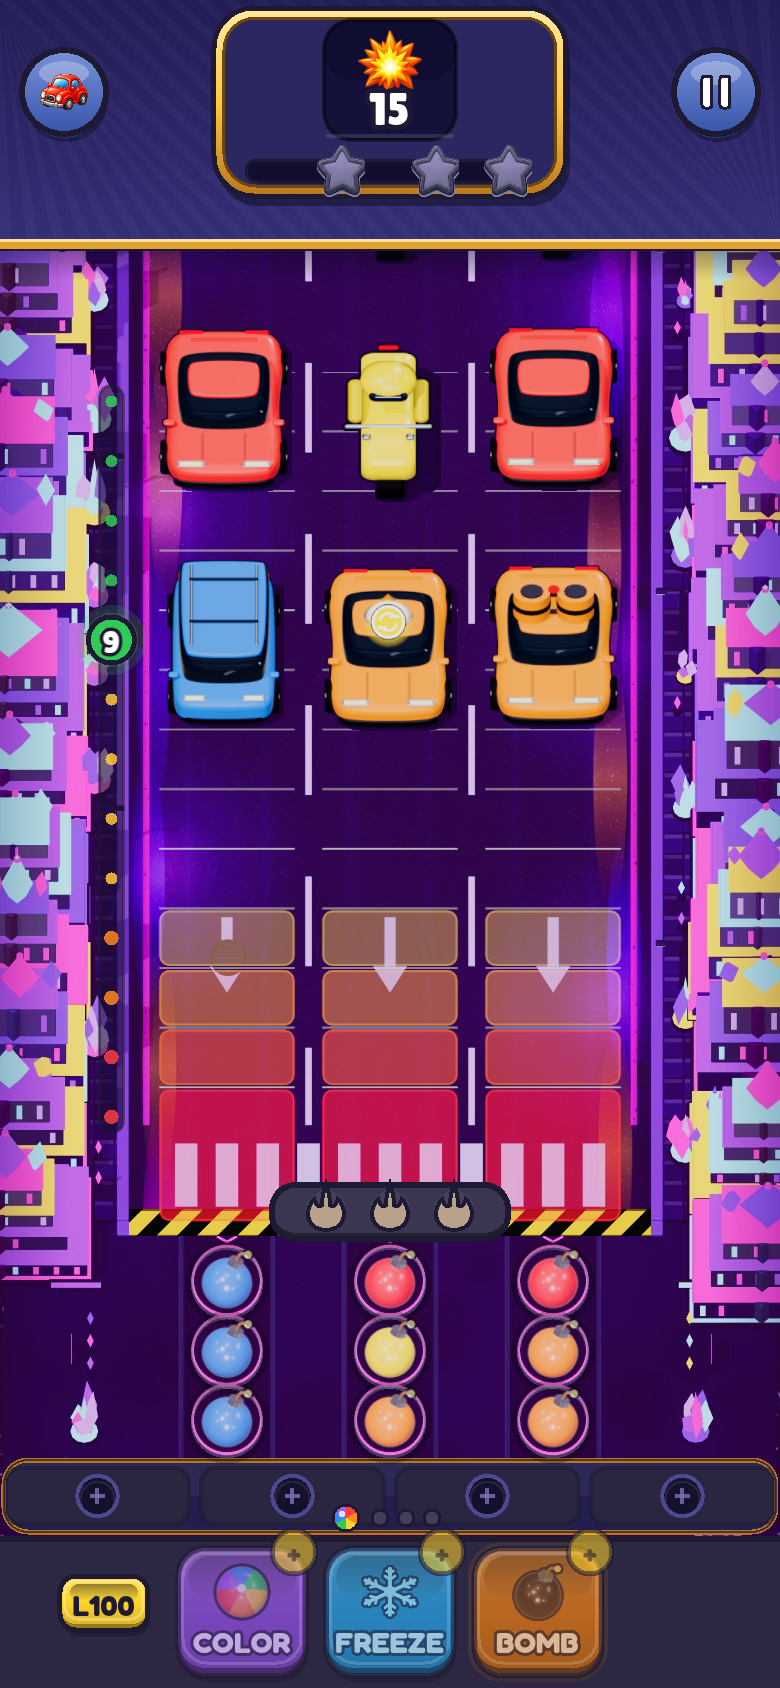
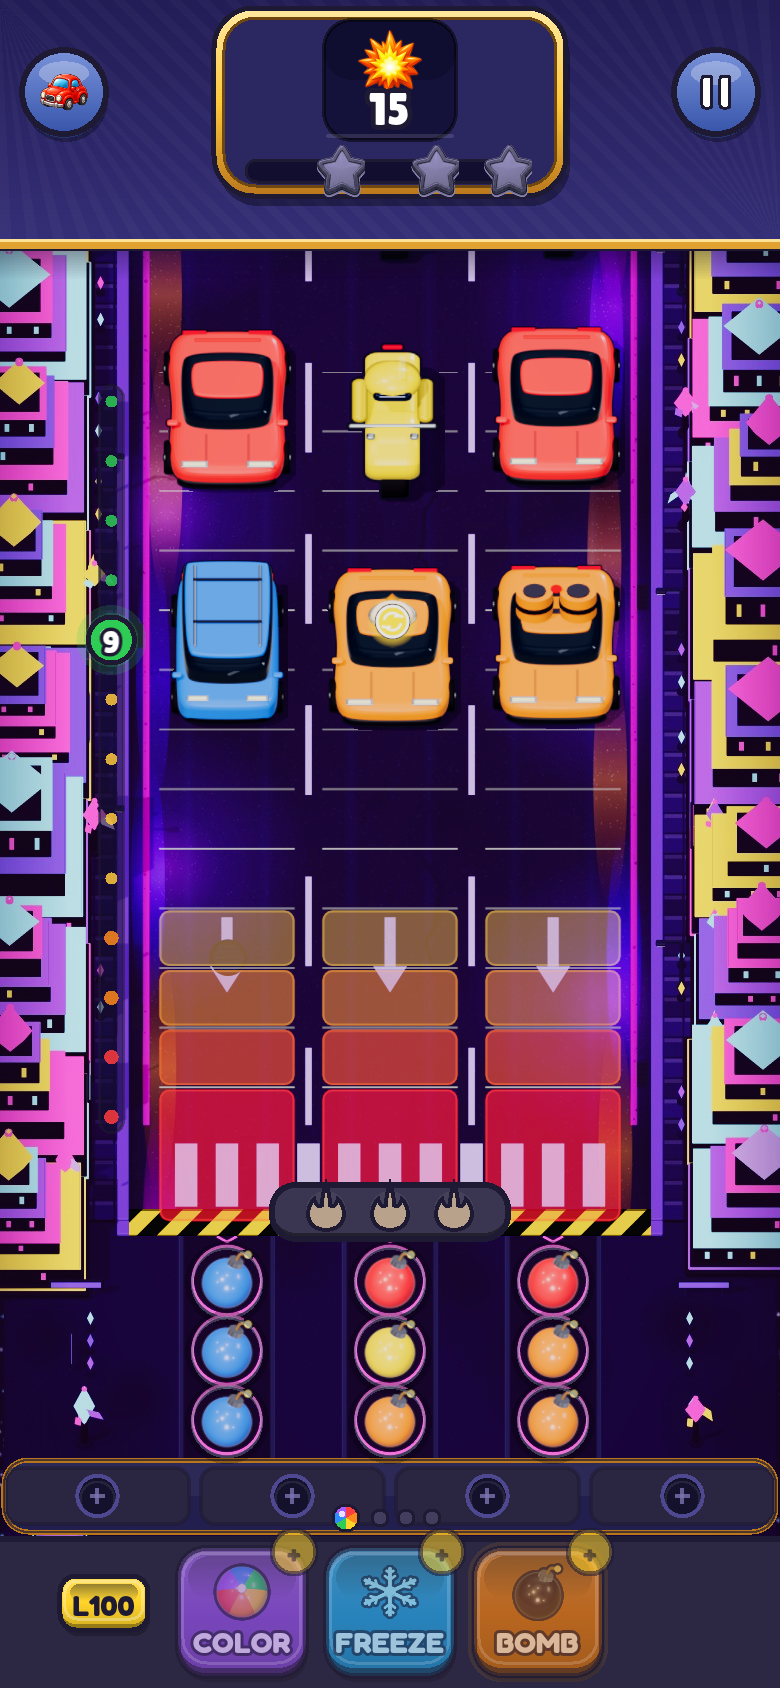
art(world7): clarify crystal spires + left crystal trees (CONCEPT revision)
Nadav rejected first CONCEPT: buildings muddy, left-side "maybe trees" unclear.
Dark silhouette rim + bright crystal core on crystalSpire; crystalTree greenery
with trunk+crown (different value from towers); thinned left filler; lighter
cosmos sceneGlow. Rebaked W7 backdrop/map/repair only. Still CONCEPT-STAMP.

diff --git a/tools/art/studio/backdrop.js b/tools/art/studio/backdrop.js
@@ -209,13 +209,16 @@ Object.assign(THEME, {
   world7: {
     asphalt: 0x241838, asphaltHi: 0x32245A, asphaltLo: 0x1A1234, paint: '#F1E8FF', centre: '#FF4FD8',
     kerb: 0x7A5CC8, gutter: 0x120A22, walk: [0x2A1E4E, 0x24183F, 0x32245A, 0x1E1438], walkJoint: '#140C28',
-    lawn: [0x140E2A, 0x100A22], leaf: [0xC89CFF, 0xA35CFF, 0x7C5CFF, 0xFF4FD8, 0x8FE8FF], trunk: 0x2A1E4A,
-    roofs: [0x1A1234, 0x24183F, 0x2E2258, 0x3A2870], walls: [0x4A3A78, 0x3E3066, 0x5A48A0, 0x35295A],
+    // Crystal-tree crowns: bright cyan/magenta (different value from dark tower walls).
+    lawn: [0x140E2A, 0x100A22], leaf: [0x8FE8FF, 0xFF4FD8, 0xC89CFF, 0xFFD42A, 0xA35CFF], trunk: 0x140C28,
+    roofs: [0x0E0818, 0x160E2E, 0x1A1234, 0x24183F],
+    // Dark silhouette walls (not mid-violet wash) — facets + neon belts carry the read.
+    walls: [0x1A1234, 0x140C28, 0x221848, 0x0E0818],
     awnings: [[0xFF4FD8, 0x1A1234], [0xA35CFF, 0x1A1234], [0x8FE8FF, 0x1A1234]],
     depot: [0x1C1438, 0x241A44, 0x160E2E], depotJoint: '#0C0818', track: 0x18122E, trackEdge: 0xFF4FD8,
     neon: [0xFF4FD8, 0xA35CFF, 0x8FE8FF, 0xFFD42A, 0x7C5CFF], lot: 0x0A0718,
     fill: [0xFF4FD8, 0x7C5CFF],
-    sun: { color: 0xD0C0FF, intensity: 1.75, hemi: [0x9A82FF, 0x140A28, 0.78], env: 0.28, exposure: 1.08 },
+    sun: { color: 0xD0C0FF, intensity: 1.85, hemi: [0x9A82FF, 0x0A0618, 0.72], env: 0.26, exposure: 1.05 },
   },
 });
 
@@ -605,85 +608,120 @@ function frostPine(T, r, s = 1) {
   return g;
 }
 function crystal(T, r, s = 1) {
-  // Pedestaled crystal cluster — dark plinth keeps crystals off the star plaza
-  // so they never melt into the ground the way Frost Pass roofs melted into snow.
+  // Sparse pedestaled crystal accent (plaza props). Prefer crystalTree for greenery —
+  // this stays a tight glowing shard cluster, not an ambiguous blob mass.
   const g = new THREE.Group();
-  const pedR = 0.32 * s, pedH = 0.1 * s;
-  g.add(cyl(pedR, pedR * 1.05, pedH, std(0x1A1234, 0.55, { metalness: 0.35 }), 0, pedH / 2, 0, 12));
-  g.add(cyl(pedR * 0.92, pedR * 0.92, 0.03 * s, glow(pick(r, T.neon ?? T.leaf)), 0, pedH + 0.01 * s, 0, 12));
-  const n = 3 + Math.floor(r() * 3);
+  const pedR = 0.28 * s, pedH = 0.12 * s;
+  g.add(cyl(pedR, pedR * 1.08, pedH, std(0x0E0818, 0.5, { metalness: 0.4 }), 0, pedH / 2, 0, 12));
+  g.add(cyl(pedR * 0.9, pedR * 0.9, 0.035 * s, glow(pick(r, T.neon ?? T.leaf)), 0, pedH + 0.012 * s, 0, 12));
+  const n = 2 + Math.floor(r() * 2); // fewer shards = clearer silhouette
   for (let i = 0; i < n; i++) {
-    const h = (0.55 + r() * 0.95) * s;
-    const rad = (0.14 + r() * 0.1) * s;
+    const h = (0.7 + r() * 0.85) * s;
+    const rad = (0.11 + r() * 0.07) * s;
     const c = new THREE.Mesh(new THREE.OctahedronGeometry(rad, 0), glow(pick(r, T.leaf)));
-    c.scale.set(1, h / (rad * 2), 1);
-    const a = (i / n) * Math.PI * 2 + r() * 0.4;
-    const spread = (0.08 + r() * 0.14) * s;
+    c.scale.set(0.85, h / (rad * 2), 0.85);
+    const a = (i / n) * Math.PI * 2 + r() * 0.25;
+    const spread = (0.04 + r() * 0.08) * s;
     c.position.set(Math.cos(a) * spread, pedH + h * 0.5, Math.sin(a) * spread);
-    c.rotation.set((r() - 0.5) * 0.35, r() * 3, (r() - 0.5) * 0.35);
+    c.rotation.set((r() - 0.5) * 0.2, r() * 3, (r() - 0.5) * 0.2);
     g.add(c);
   }
-  // Tall centre shard for silhouette.
-  if (r() < 0.7) {
-    const h = (1.0 + r() * 0.7) * s;
-    const tip = new THREE.Mesh(new THREE.OctahedronGeometry(0.12 * s, 0), glow(pick(r, [0xFF4FD8, 0xC89CFF, 0x8FE8FF])));
-    tip.scale.set(0.7, h / (0.24 * s), 0.7);
-    tip.position.set(0, pedH + h * 0.5, 0);
-    g.add(tip);
+  const tipH = (1.15 + r() * 0.55) * s;
+  const tip = new THREE.Mesh(new THREE.OctahedronGeometry(0.11 * s, 0), glow(pick(r, [0xFF4FD8, 0x8FE8FF, 0xFFD42A])));
+  tip.scale.set(0.65, tipH / (0.22 * s), 0.65);
+  tip.position.set(0, pedH + tipH * 0.5, 0);
+  g.add(tip);
+  return g;
+}
+function crystalTree(T, r, s = 1) {
+  // Unmistakable crystal tree: dark trunk + bright crown — different value/silhouette
+  // from chunky crystalSpire towers so left-side greenery never reads as "maybe buildings".
+  const g = new THREE.Group();
+  const trunkH = (0.55 + r() * 0.25) * s;
+  const trunkR = (0.055 + r() * 0.02) * s;
+  // Near-black trunk + thin cyan neon seam so trunk separates from night plaza.
+  g.add(cyl(trunkR, trunkR * 1.15, trunkH, std(0x0E0818, 0.55, { metalness: 0.35 }), 0, trunkH / 2, 0, 8));
+  g.add(cyl(trunkR * 0.35, trunkR * 0.35, trunkH * 0.92, glow(pick(r, [0x8FE8FF, 0xA35CFF])), 0, trunkH / 2, 0, 6));
+  // Small dark planter disk (not a building pedestal).
+  g.add(cyl(trunkR * 2.4, trunkR * 2.6, 0.06 * s, std(0x120A28, 0.6, { metalness: 0.3 }), 0, 0.03 * s, 0, 10));
+  // Crown: 1 tall centre octahedron + 3–4 side leaves — clear tree silhouette.
+  const crownCols = [0x8FE8FF, 0xFF4FD8, 0xC89CFF, 0xFFD42A, 0xA35CFF];
+  const centreH = (0.85 + r() * 0.55) * s;
+  const centre = new THREE.Mesh(new THREE.OctahedronGeometry(0.22 * s, 0), glow(pick(r, crownCols)));
+  centre.scale.set(1, centreH / (0.44 * s), 1);
+  centre.position.y = trunkH + centreH * 0.42;
+  g.add(centre);
+  const leaves = 3 + Math.floor(r() * 2);
+  for (let i = 0; i < leaves; i++) {
+    const a = (i / leaves) * Math.PI * 2 + r() * 0.3;
+    const lh = (0.45 + r() * 0.35) * s;
+    const leaf = new THREE.Mesh(new THREE.OctahedronGeometry(0.14 * s, 0), glow(pick(r, crownCols)));
+    leaf.scale.set(0.75, lh / (0.28 * s), 0.55);
+    leaf.position.set(Math.cos(a) * 0.22 * s, trunkH + lh * 0.35 + r() * 0.12 * s, Math.sin(a) * 0.22 * s);
+    leaf.rotation.set((r() - 0.5) * 0.5, a, (r() - 0.5) * 0.35 + 0.55);
+    g.add(leaf);
   }
+  // Magenta tip sparkle — reads as tree top, not tower aviation beacon.
+  g.add(sphere(0.06 * s, glow(0xFF4FD8), 0, trunkH + centreH * 0.85, 0, 8, 6));
   return g;
 }
 function crystalSpire(T, r, w, d, h) {
-  // Faceted crystal tower — geometric prism stack with glowing violet rings.
-  // Reads as a sci-fi crystal monument, NOT a Neon Nights setback office tower.
+  // Faceted crystal tower with HARD silhouette: dark outer rim + bright crystal core.
+  // Clarity revision — edges must read vs night sky / plaza (not violet-on-violet mush).
   const g = new THREE.Group();
   const wall = pick(r, T.walls);
   const neon = pick(r, T.neon ?? T.leaf);
-  // Dark pedestal plinth for plaza contrast.
-  g.add(rbox(w + 0.35, 0.14, d + 0.35, 0.06, std(0x120A28, 0.55, { metalness: 0.4 }), 0, 0.07, 0));
-  g.add(rbox(w + 0.2, 0.04, d + 0.2, 0.04, glow(neon), 0, 0.16, 0));
-  // Tapered faceted shaft: 3–4 prism tiers getting narrower.
+  const rim = std(0x080510, 0.55, { metalness: 0.25 }); // near-black silhouette rim
+  // Tall dark pedestal that separates tower mass from star plaza.
+  g.add(rbox(w + 0.55, 0.22, d + 0.55, 0.08, std(0x0A0618, 0.5, { metalness: 0.45 }), 0, 0.11, 0));
+  g.add(rbox(w + 0.38, 0.06, d + 0.38, 0.04, glow(neon), 0, 0.24, 0));
+  g.add(rbox(w + 0.28, 0.03, d + 0.28, 0.02, rim, 0, 0.28, 0));
+  // Tapered shaft: dark shell + bright inner diamond core + neon belt per tier.
   const tiers = 3 + Math.floor(r() * 2);
-  let y = 0.18, tw = w, td = d;
+  let y = 0.30, tw = w, td = d;
   for (let i = 0; i < tiers; i++) {
-    const th = h * (0.22 + r() * 0.1) * (i === tiers - 1 ? 1.15 : 1);
-    const body = std(mix(wall, 0xffffff, 0.08 * i), 0.35, { metalness: 0.45 });
-    // Slight diamond footprint via rotated square + upright box.
-    g.add(rbox(tw, th, td, 0.02, body, 0, y + th / 2, 0));
-    const facet = rbox(tw * 0.72, th * 0.98, td * 0.72, 0.02, std(mix(wall, neon, 0.15), 0.3, { metalness: 0.55 }), 0, y + th / 2, 0);
+    const th = h * (0.20 + r() * 0.09) * (i === tiers - 1 ? 1.2 : 1);
+    // Outer dark shell (silhouette against night sky).
+    g.add(rbox(tw + 0.08, th, td + 0.08, 0.02, rim, 0, y + th / 2, 0));
+    // Mid body — slightly lifted from pure black so facets still shade.
+    const body = std(mix(wall, 0x000000, 0.15), 0.4, { metalness: 0.5 });
+    g.add(rbox(tw, th * 0.96, td, 0.02, body, 0, y + th / 2, 0));
+    // Bright crystal core (rotated diamond) — high value vs dark shell.
+    const coreCol = mix(neon, 0xffffff, 0.25 + i * 0.08);
+    const facet = rbox(tw * 0.62, th * 0.9, td * 0.62, 0.02, std(coreCol, 0.25, { metalness: 0.65, emissive: neon, emissiveIntensity: 0.18 }), 0, y + th / 2, 0);
     facet.rotation.y = Math.PI / 4;
     g.add(facet);
-    // Glowing ring belt at each tier joint.
-    g.add(rbox(tw + 0.08, 0.05, td + 0.08, 0.02, glow(pick(r, T.neon ?? T.leaf)), 0, y + th - 0.02, 0));
-    // Cool lit facets (not warm office windows).
-    const cols = Math.max(2, Math.floor(tw / 0.45));
+    // Vertical edge highlights (4 corners) — crisp facet read at bake resolution.
+    const edgeM = glow(mix(neon, 0xffffff, 0.35));
+    const ew = 0.035, eh = th * 0.85;
+    for (const [sx, sz] of [[1, 1], [1, -1], [-1, 1], [-1, -1]]) {
+      g.add(box(ew, eh, ew, edgeM, sx * (tw / 2 + 0.01), y + th / 2, sz * (td / 2 + 0.01)));
+    }
+    // Neon belt at tier joint (bright ring vs dark shell).
+    g.add(rbox(tw + 0.14, 0.06, td + 0.14, 0.02, glow(pick(r, T.neon ?? T.leaf)), 0, y + th - 0.02, 0));
+    // Sparse cool window facets on the camera-facing face only (not a wash of panes).
+    const cols = Math.max(1, Math.floor(tw / 0.55));
     for (let c = 0; c < cols; c++) {
-      if (r() < 0.35) continue;
-      g.add(box(0.14, th * 0.55, 0.02, glow(pick(r, [0xC89CFF, 0x8FE8FF, 0xFF4FD8, 0xA35CFF])),
-        -tw / 2 + (c + 0.5) * (tw / cols), y + th * 0.45, td / 2 + 0.01));
+      if (r() < 0.4) continue;
+      g.add(box(0.12, th * 0.42, 0.025, glow(pick(r, [0x8FE8FF, 0xFF4FD8, 0xFFD42A])),
+        -tw / 2 + (c + 0.5) * (tw / cols), y + th * 0.48, td / 2 + 0.03));
     }
     y += th;
-    tw *= 0.72 + r() * 0.08;
-    td *= 0.72 + r() * 0.08;
+    tw *= 0.70 + r() * 0.06;
+    td *= 0.70 + r() * 0.06;
   }
-  // Crystal crown — stacked octahedrons, not a billboard / pool / helipad.
-  const crownH = 0.7 + r() * 0.55;
-  const crown = new THREE.Mesh(new THREE.OctahedronGeometry(Math.min(tw, td) * 0.55, 0), glow(pick(r, T.leaf)));
-  crown.scale.set(1, crownH / (Math.min(tw, td) * 0.55), 1);
-  crown.position.y = y + crownH * 0.45;
+  // Single bright crown octahedron (no side-shard mush).
+  const crownH = 0.85 + r() * 0.45;
+  const crownR = Math.max(0.28, Math.min(tw, td) * 0.7);
+  const crown = new THREE.Mesh(new THREE.OctahedronGeometry(crownR, 0), glow(pick(r, [0x8FE8FF, 0xFF4FD8, 0xC89CFF, 0xFFD42A])));
+  crown.scale.set(1, crownH / crownR, 1);
+  crown.position.y = y + crownH * 0.42;
   g.add(crown);
-  if (r() < 0.7) {
-    for (let k = 0; k < 2; k++) {
-      const side = new THREE.Mesh(new THREE.OctahedronGeometry(0.18 + r() * 0.1, 0), glow(pick(r, T.neon ?? T.leaf)));
-      side.scale.set(1, 1.6 + r(), 1);
-      side.position.set((k ? 1 : -1) * tw * 0.55, y + 0.35 + r() * 0.2, (r() - 0.5) * td * 0.3);
-      side.rotation.set((r() - 0.5) * 0.4, r() * 2, (r() - 0.5) * 0.4);
-      g.add(side);
-    }
-  }
-  // Magenta aviation tip (crystal glow, not red city beacon).
-  g.add(cyl(0.04, 0.04, 0.35, std(0x2A1E4A, 0.5), 0, y + crownH + 0.15, 0, 6));
-  g.add(cyl(0.09, 0.09, 0.09, glow(0xFF4FD8), 0, y + crownH + 0.35, 0, 10));
+  // Dark collar under crown so crown doesn't melt into top tier.
+  g.add(rbox(tw + 0.1, 0.05, td + 0.1, 0.02, rim, 0, y + 0.02, 0));
+  // Magenta aviation tip.
+  g.add(cyl(0.045, 0.045, 0.32, std(0x140C28, 0.5), 0, y + crownH + 0.12, 0, 6));
+  g.add(cyl(0.1, 0.1, 0.1, glow(0xFF4FD8), 0, y + crownH + 0.32, 0, 10));
   return g;
 }
 function crystalBollard(col = 0xA35CFF) {
@@ -700,7 +738,7 @@ function crystalBollard(col = 0xA35CFF) {
 function greenery(world, T, r, s = 1) {
   if (world === 'world4') return r() < 0.8 ? cactus(T, r, s) : rockCluster(T, r, 0.7 * s, 0.6 * s);
   if (world === 'world5') return frostPine(T, r, s);
-  if (world === 'world7') return crystal(T, r, s * 1.1);
+  if (world === 'world7') return crystalTree(T, r, s * 1.05);
   return tree(T, r, s);
 }
 function bedFor(world, T, r, w, d) {
@@ -1040,11 +1078,12 @@ export function buildBackdrop(world, variant, L) {
         else if (kind < 0.8) { const p = pallet(r); p.position.set(px, 0.1, Z(tz)); p.rotation.y = r() * 0.4; g.add(p); }
         else { const t = greenery(world, T, r, 0.8); t.position.set(px, 0.1, Z(tz)); g.add(t); }
       } else if (world === 'world7') {
-        // Starlight Strip sidewalk: pedestaled crystals, glowing crystal posts, magenta neon.
-        if (kind < 0.42) { const t = greenery(world, T, r, 0.95 + r() * 0.35); t.position.set(px, 0.1, Z(tz)); g.add(t); }
-        else if (kind < 0.62) { for (let k = 0; k < 2; k++) { const b = crystalBollard(pick(r, T.neon)); b.position.set(px - s * 0.1, 0.1, Z(tz + k * 0.75)); g.add(b); } }
-        else if (kind < 0.8) { const n = neonSign(T, r, 1.0 + r() * 0.4); n.position.set(px + s * 0.15, 0.1, Z(tz)); n.rotation.y = Math.PI / 2; g.add(n); }
-        else { const t = greenery(world, T, r, 0.7); t.position.set(px, 0.1, Z(tz)); g.add(t); const b = crystalBollard(0xFF4FD8); b.position.set(px - s * 0.2, 0.1, Z(tz + 0.85)); g.add(b); }
+        // Starlight Strip sidewalk: sparse crystal TREES (clear trunk+crown) + bollards —
+        // thin the left-side mush; prefer readable props over dense unclear filler.
+        if (kind < 0.22) { const t = greenery(world, T, r, 1.05 + r() * 0.25); t.position.set(px, 0.1, Z(tz)); g.add(t); }
+        else if (kind < 0.55) { for (let k = 0; k < 2; k++) { const b = crystalBollard(pick(r, T.neon)); b.position.set(px - s * 0.1, 0.1, Z(tz + k * 0.8)); g.add(b); } }
+        else if (kind < 0.78) { const n = neonSign(T, r, 1.0 + r() * 0.4); n.position.set(px + s * 0.15, 0.1, Z(tz)); n.rotation.y = Math.PI / 2; g.add(n); }
+        else { const b = crystalBollard(0xFF4FD8); b.position.set(px - s * 0.15, 0.1, Z(tz)); g.add(b); const b2 = crystalBollard(0x8FE8FF); b2.position.set(px - s * 0.15, 0.1, Z(tz + 0.9)); g.add(b2); }
       } else {
         if (kind < 0.4) { const t = greenery(world, T, r, 0.85); t.position.set(px, 0.1, Z(tz)); g.add(t); }
         else if (kind < 0.7) { const b = bollard(0x4A4E62); b.position.set(px - s * 0.1, 0.1, Z(tz)); g.add(b); const b2 = bollard(0x4A4E62); b2.position.set(px - s * 0.1, 0.1, Z(tz + 0.7)); g.add(b2); }
@@ -1057,7 +1096,7 @@ export function buildBackdrop(world, variant, L) {
     let bz = L.topZ - 1.5;
     const bzEnd = FAMILY[world] === 'town' ? z1 : L.breachZ + 0.5;   // town: the street's houses continue beside the depot
     while (bz < bzEnd) {
-      const d = FAMILY[world] === 'yard' ? 3.2 + r() * 1.6 : world === 'world7' ? 1.7 + r() * 1.1 : 2.0 + r() * 1.2;
+      const d = FAMILY[world] === 'yard' ? 3.2 + r() * 1.6 : world === 'world7' ? 2.4 + r() * 1.3 : 2.0 + r() * 1.2;
       const w = 2.6 + r() * 0.8;
       const cx = bandIn + s * w / 2;
       const zc = bz + d / 2;
@@ -1096,15 +1135,16 @@ export function buildBackdrop(world, variant, L) {
           for (let k = 0; k < 3; k++) { const dr = drum(pick(r, [0x2F8CFF, 0xE0574A, 0x2FA36B])); dr.position.set(bandIn + s * (0.3 + r() * 0.3), 0.1, Z(zc - d / 2 + 0.4 + k * 0.4)); g.add(dr); }
         }
       } else if (world === 'world7') {
-        // Crystal spires / geometric towers — sci-fi strip, not neon-city setbacks.
-        const h = 2.0 + r() * 2.4;
-        const sp = crystalSpire(T, r, w + 0.35 + r() * 0.4, Z(d) - Z(0) - 0.25, h);
+        // Crystal spires — spaced so each tower silhouette reads; rare crystalTree in the gap
+        // (not a pedestaled blob glued to the tower face).
+        const h = 2.2 + r() * 2.2;
+        const sp = crystalSpire(T, r, w + 0.2 + r() * 0.35, Z(d) - Z(0) - 0.3, h);
         sp.position.set(cx, 0.1, Z(zc));
         g.add(sp);
-        if (r() < 0.55) {
-          const cl = crystal(T, r, 0.7 + r() * 0.35);
-          cl.position.set(bandIn + s * 0.35, 0.1, Z(zc - d * 0.3));
-          g.add(cl);
+        if (r() < 0.28) {
+          const tr = crystalTree(T, r, 0.85 + r() * 0.25);
+          tr.position.set(bandIn + s * 0.22, 0.1, Z(zc - d * 0.42));
+          g.add(tr);
         }
       } else {
         const h = 1.6 + r() * 1.8;
@@ -1177,11 +1217,11 @@ export function buildBackdrop(world, variant, L) {
       const c = cone(); c.position.set(fx - s * 0.2, 0.02, Z(dz0 + 6.2)); g.add(c);
     } else if (world === 'world7') {
       const n = neonSign(T, r, 1.35); n.position.set(fx + s * 0.2, 0.02, Z(dz0 + 1.8)); g.add(n);
-      if (r() < 0.7) { const n2 = neonSign(T, r, 0.9); n2.position.set(fx + s * 0.35, 0.02, Z(dz0 + 3.4)); n2.rotation.y = Math.PI / 2; g.add(n2); }
-      const t = greenery(world, T, r, 1.05); t.position.set(fx, 0.02, Z(dz0 + 5.2)); g.add(t);
-      const t2 = greenery(world, T, r, 0.75); t2.position.set(fx + s * 0.45, 0.02, Z(dz0 + 6.6)); g.add(t2);
+      if (r() < 0.55) { const n2 = neonSign(T, r, 0.9); n2.position.set(fx + s * 0.35, 0.02, Z(dz0 + 3.4)); n2.rotation.y = Math.PI / 2; g.add(n2); }
+      // One clear crystal tree per flank (not two overlapping greenery blobs).
+      const t = greenery(world, T, r, 1.15); t.position.set(fx, 0.02, Z(dz0 + 5.4)); g.add(t);
       for (let k = 0; k < 3; k++) { const b = crystalBollard(pick(r, T.neon)); b.position.set(fx - s * 0.15, 0.02, Z(dz0 + 2.6 + k * 0.55)); g.add(b); }
-      if (r() < 0.6) { const sp = crystalSpire(T, r, 1.4, 1.3, 2.2 + r() * 0.8); sp.position.set(fx + s * 0.55, 0.02, Z(dz0 + 8.0)); sp.scale.setScalar(0.72); g.add(sp); }
+      if (r() < 0.5) { const sp = crystalSpire(T, r, 1.35, 1.25, 2.4 + r() * 0.7); sp.position.set(fx + s * 0.6, 0.02, Z(dz0 + 8.2)); sp.scale.setScalar(0.78); g.add(sp); }
     } else {
       const n = neonSign(T, r, 1.1); n.position.set(fx + s * 0.2, 0.02, Z(dz0 + 2.2)); g.add(n);
       const t = greenery(world, T, r, 0.9); t.position.set(fx, 0.02, Z(dz0 + 5.0)); g.add(t);
@@ -1234,11 +1274,12 @@ export function renderBackdrop(renderer, world, variant, L, { scale = 2, ss = 2 
   if (FAMILY[world] === 'night') {
     // Coloured neon fill from the flanks — World7 punches magenta/violet so crystals read.
     const [fa, fb2] = T.fill ?? [0xFF3DB8, 0x4FE3FF];
-    const inten = world === 'world7' ? 0.52 : 0.35;
+    const inten = world === 'world7' ? 0.38 : 0.35;
     const a = new THREE.DirectionalLight(fa, inten); a.position.set(-10, 6, zMid); scene.add(a);
     const b = new THREE.DirectionalLight(fb2, inten); b.position.set(10, 6, zMid); scene.add(b);
     if (world === 'world7') {
-      const c = new THREE.PointLight(0xA35CFF, 0.55, 40, 2); c.position.set(0, 8, zMid); scene.add(c);
+      // Softer fill — hard rim/core contrast on spires must survive the bake (not violet wash).
+      const c = new THREE.PointLight(0xA35CFF, 0.35, 40, 2); c.position.set(0, 8, zMid); scene.add(c);
     }
   }
 
@@ -1281,6 +1322,6 @@ export function renderBackdrop(renderer, world, variant, L, { scale = 2, ss = 2 
 }
 
 // ── Shared with the map diorama (mapdiorama.js) ─────────────────────────────
-export { THEME, FAMILY, greenery, bedFor, potFor, townOpts, starTexture, cactus, rockCluster, snowDrift, frostPine, crystal, crystalSpire, crystalBollard, rng, pick, mix, std, glow, rbox, box, cyl, sphere, blob, plane, canvas, toTex, speckle, blotch,
+export { THEME, FAMILY, greenery, bedFor, potFor, townOpts, starTexture, cactus, rockCluster, snowDrift, frostPine, crystal, crystalTree, crystalSpire, crystalBollard, rng, pick, mix, std, glow, rbox, box, cyl, sphere, blob, plane, canvas, toTex, speckle, blotch,
   paverTexture, grassTexture, tree, pine, bush, flowerBed, lamp, bench, hydrant, bollard, bin, planterPot, parasol,
   townHouse, warehouse, shippingContainer, drum, pallet, cone, fence, tower, neonSign };

diff --git a/tools/art/studio/mapdiorama.js b/tools/art/studio/mapdiorama.js
@@ -13,12 +13,12 @@ import {
   paverTexture, grassTexture, tree, pine, bush, flowerBed, lamp, bench, bollard, planterPot,
   townHouse, warehouse, shippingContainer, drum, pallet, cone, fence, tower, neonSign,
   FAMILY, greenery, bedFor, potFor, townOpts, starTexture, cactus, rockCluster, snowDrift, frostPine,
-  crystal, crystalSpire, crystalBollard,
+  crystal, crystalTree, crystalSpire, crystalBollard,
 } from './backdrop.js';
 
 const NEW_WORLD = (w) => Number(w.slice(5)) > 3;
 const HEDGE = { world1: 0x3F8F3E, world4: 0xD8B27C, world5: 0xF2F7FB };
-const WALL = { world1: 0xEFDCC0, world2: 0xC9C4BA, world3: 0x3E4258, world4: 0xF0D2A0, world5: 0xA8744A, world6: 0xC9D3DC, world7: 0x3E3066 };
+const WALL = { world1: 0xEFDCC0, world2: 0xC9C4BA, world3: 0x3E4258, world4: 0xF0D2A0, world5: 0xA8744A, world6: 0xC9D3DC, world7: 0x1A1234 };
 
 function ribbon(points, width, mat, y, uvLen = 0) {
   const pos = [], idx = [], uv = [];
@@ -191,11 +191,12 @@ export function buildMapHD(theme, seed, { W, H, S, road, nodes, plots, tilt }) {
       else if (p < 0.9) { rad = 0.7; obj = new THREE.Group(); for (let k = 0; k < 2; k++) { const pl = pallet(r); pl.position.x = k * 0.85; obj.add(pl); } }
       else { rad = 0.5; obj = new THREE.Group(); for (let k = 0; k < 3; k++) { const c = cone(); c.position.x = k * 0.35; obj.add(c); } }
     } else if (theme === 'world7') {
-      if (p < 0.14) { rad = 0.4; obj = lamp(T, r, true, 1); }
-      else if (p < 0.48) { rad = 1.7; obj = crystalSpire(T, r, 1.7 + r() * 0.5, 1.5, 2.2 + r() * 2.2); }
-      else if (p < 0.7) { rad = 0.75; obj = greenery(theme, T, r, 0.95 + r() * 0.4); }
-      else if (p < 0.84) { rad = 0.6; obj = neonSign(T, r, 1.1); }
-      else { rad = 0.35; obj = crystalBollard(pick(r, T.neon)); }
+      // Clarity: fewer denser-spaced spires + sparse crystal trees (not blob mush).
+      if (p < 0.12) { rad = 0.45; obj = lamp(T, r, true, 1); }
+      else if (p < 0.52) { rad = 2.1; obj = crystalSpire(T, r, 1.6 + r() * 0.45, 1.45, 2.4 + r() * 2.0); }
+      else if (p < 0.66) { rad = 1.05; obj = greenery(theme, T, r, 1.05 + r() * 0.3); }
+      else if (p < 0.82) { rad = 0.65; obj = neonSign(T, r, 1.1); }
+      else { rad = 0.4; obj = crystalBollard(pick(r, T.neon)); }
     } else {
       if (p < 0.18) { rad = 0.4; obj = lamp(T, r, true, 1); }
       else if (p < 0.6) { rad = 1.6; obj = tower(T, r, 2.0 + r() * 0.6, 1.8, 1.8 + r() * 2.4); }
@@ -247,7 +248,8 @@ export function buildRepairHD(theme, state, variant) {
     if (theme === 'world7') {
       const grp = new THREE.Group();
       grp.add(crystalSpire(T, rng(variant * 31 + 3), 2.0, 1.7, 2.1 + (variant % 3) * 0.55));
-      const cl = crystal(T, r, 0.7); cl.position.set(w / 2 + 0.15, 0, -0.2); grp.add(cl);
+      // Crystal tree beside spire (clear trunk+crown), not an ambiguous shard blob.
+      const tr = crystalTree(T, r, 0.85); tr.position.set(w / 2 + 0.35, 0, -0.25); grp.add(tr);
       return grp;
     }
     return tower(T, rng(variant * 31 + 3), 2.1, 1.8, 2.0 + (variant % 3) * 0.45);

diff --git a/src/renderer3d/ThemeRegistry.js b/src/renderer3d/ThemeRegistry.js
@@ -124,9 +124,9 @@ export const THEMES = {
     fog:       { color: 0x2a1458, near: 14, far: 48 },
     roadColor: 0x120c1e,
     emissiveBoost: 0.35,
-    // Presentation-only wash: deep-violet multiply on verge + magenta crystal flare add.
-    sceneTint: 0xC8B8F0,
-    sceneGlow: 0x3A1040,
+    // Clarity revision: lighter wash so crystalSpire / crystalTree edges from the bake survive.
+    sceneTint: 0xD0C4F0,
+    sceneGlow: 0x241028,
   },
 };
 
